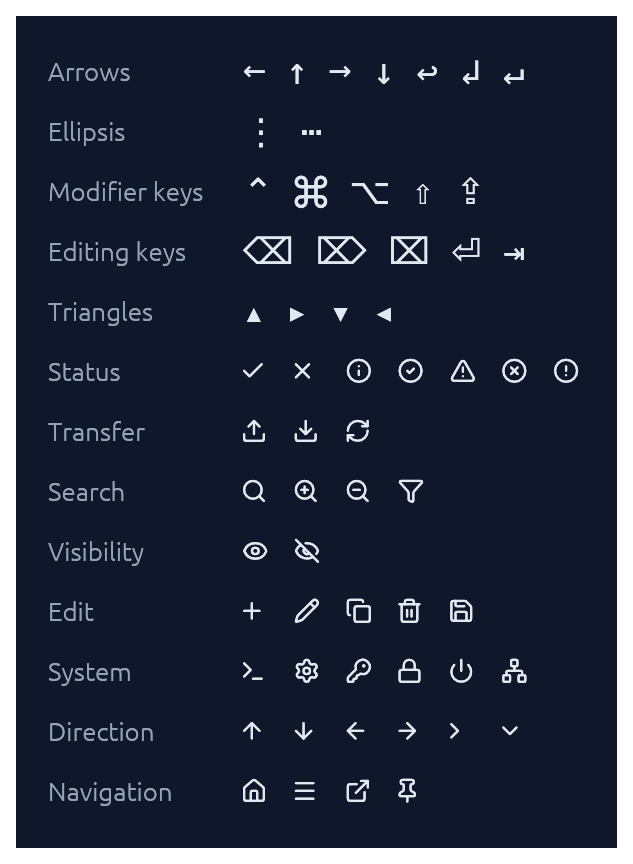
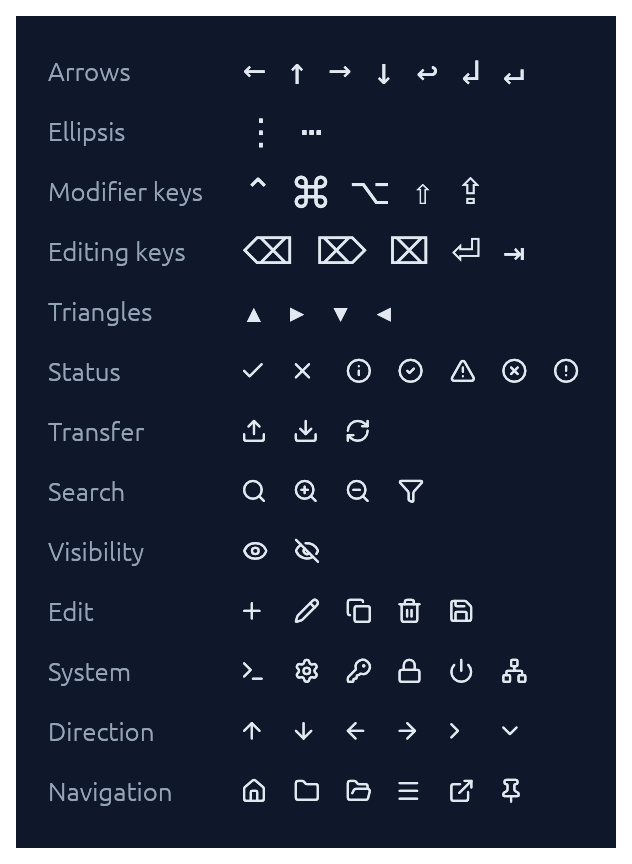
Bake folder and folder-open into the glyph set
A downstream app reached for the 📁 emoji as the root of a breadcrumb,
because the set has no folder icon. That is not just a style mismatch:
the emoji resolves in the system emoji font, so it paints full-colour on
its own metrics and baseline, next to stroked Lucide outlines sharing a
cap-height and advance. The seam shows most where it hurts, in a
breadcrumb whose separator is CHEVRON_RIGHT and whose root may be HOME.

FOLDER at U+E023 clears the scope bar on its own: directories and
collections are generic UI vocabulary, the same tier as the house, lock,
and save already baked, not one app's domain nouns. FOLDER_OPEN at
U+E024 follows it for the expanded or current node in a tree — the pair
reads apart at gallery size, so a tree can switch between them without a
size bump.

The rebake is faithful to the pinned Lucide tag: diffed glyph-by-glyph
against the previous font, all 64 existing outlines and advances are
unchanged and only the two codepoints are added. Regenerating the docs
rewrites every PNG, but only glyphs.png differs pixel-wise, so the rest
are left alone to keep the diff reviewable.

diff --git a/src/lib.rs b/src/lib.rs
@@ -237,6 +237,13 @@ pub mod glyphs {
     pub const LOCK: char = '\u{E021}';
     /// Save icon, for persisting changes. Source: [Lucide `save`](https://lucide.dev/icons/save).
     pub const SAVE: char = '\u{E022}';
+    /// Folder icon, for directories, collections, and breadcrumb roots
+    /// (pairs with [`HOME`]). Source: [Lucide `folder`](https://lucide.dev/icons/folder).
+    pub const FOLDER: char = '\u{E023}';
+    /// Open-folder icon, for the expanded or current directory in a tree or
+    /// breadcrumb (pairs with [`FOLDER`]).
+    /// Source: [Lucide `folder-open`](https://lucide.dev/icons/folder-open).
+    pub const FOLDER_OPEN: char = '\u{E024}';
     /// Check / done mark, mapped at standard U+2713 so plain `'✓'` literals
     /// also pick up the elegance treatment.
     /// Source: [Lucide `check`](https://lucide.dev/icons/check).

diff --git a/examples/render_docs.rs b/examples/render_docs.rs
@@ -2067,7 +2067,14 @@ fn render_glyphs() {
                         ),
                         (
                             "Navigation",
-                            icons(&[g::HOME, g::MENU, g::EXTERNAL_LINK, g::PIN]),
+                            icons(&[
+                                g::HOME,
+                                g::FOLDER,
+                                g::FOLDER_OPEN,
+                                g::MENU,
+                                g::EXTERNAL_LINK,
+                                g::PIN,
+                            ]),
                         ),
                     ];
                     for (label, glyphs) in &rows {

diff --git a/scripts/update_lucide_glyphs.py b/scripts/update_lucide_glyphs.py
@@ -83,6 +83,8 @@ LUCIDE_GLYPHS = [
     ("house", 0xE020),
     ("lock", 0xE021),
     ("save", 0xE022),
+    ("folder", 0xE023),
+    ("folder-open", 0xE024),
     ("check", 0x2713),
     ("x", 0x2717),
 ]

diff --git a/CHANGELOG.md b/CHANGELOG.md
@@ -13,6 +13,7 @@ Next version is 0.16.0: the `PairItem` change below is breaking.
 - **Commit signal.** New `ResponseCommitExt::committed()` reports the frame a value adjustment settles: on pointer release after a drag or a click (any mouse button, plus touch long-press), immediately on a keyboard nudge, and — for the `Knob`'s scroll wheel — once when the scroll stops rather than once per frame of its smoothed delta. `changed()` still fires on every intermediate value, which is what a live preview wants; `committed()` is for reactions you would not want to repeat dozens of times for one gesture, such as a network write or a disk persist. A `MetricSlider` in `stops` mode previously fired `changed()` once per stop a drag crossed, with no affordance to tell an intermediate value from a settled one. Works on `MetricSlider`, `PercentSlider`, `Slider`, `RangeSlider`, and `Knob`.
 - **Per-item icon tint on `Pairing`.** `PairItem::icon_tone(BadgeTone)` tints a node's leading icon with the crate's status vocabulary; `PairItem::icon_color(impl Into<Color32>)` takes an explicit colour. Untinted icons are unchanged.
 - `BadgeTone::foreground(&Palette)` is now public — the resolver behind badge labels and icon tones.
+- **`glyphs::FOLDER` and `glyphs::FOLDER_OPEN`** (Lucide `folder` / `folder-open`, `U+E023`–`U+E024`), for directories, collections, and breadcrumb roots, with the open variant for the expanded or current node. Apps were falling back to the 📁 emoji, which renders in the system emoji font and reads as a different icon set beside elegance's Lucide glyphs.
 - **`ColorPicker` is keyboard-operable.** Its saturation/value plane, hue strip, and alpha strip were pointer-only: `Tab` landed on them, because they were focusable, but they answered no keys, so the arrows navigated straight back off and a keyboard user could not pick a colour at all. The plane now takes `←`/`→` for saturation and `↑`/`↓` for value; the two strips take `←`/`→` plus `Home`/`End`; `Shift` is a 10x nudge throughout. Each surface draws a focus ring, announces itself to screen readers (previously three unlabelled targets), and records to the recents row on a keyboard adjustment just as it does on a pointer release — one entry per run of presses, so holding an arrow key down cannot flood the row.
 
 ### Changed

diff --git a/dev/glyph_additions_plan.md b/dev/glyph_additions_plan.md
@@ -1,6 +1,6 @@
 # Glyph Additions — Proposal
 
-> **Status:** shipped, and then expanded. This document proposed the first six action glyphs (`U+E00C`–`U+E011`). A follow-up batch added 17 more at `U+E012`–`U+E022` — a Status family (`info`, `triangle-alert`, `circle-x`, `circle-check`) that also rewires `CalloutTone`'s per-tone marks, plus broadly-useful nav/action icons (`settings`, `menu`, `arrow-left`/`right`, `external-link`, `chevron-right`/`down`) and situational ones (`funnel`→`FILTER`, `eye`, `eye-off`, `house`→`HOME`, `lock`, `save`). The conventions and process below applied unchanged to both batches.
+> **Status:** shipped, and then expanded. This document proposed the first six action glyphs (`U+E00C`–`U+E011`). A follow-up batch added 17 more at `U+E012`–`U+E022` — a Status family (`info`, `triangle-alert`, `circle-x`, `circle-check`) that also rewires `CalloutTone`'s per-tone marks, plus broadly-useful nav/action icons (`settings`, `menu`, `arrow-left`/`right`, `external-link`, `chevron-right`/`down`) and situational ones (`funnel`→`FILTER`, `eye`, `eye-off`, `house`→`HOME`, `lock`, `save`). `folder` and `folder-open` landed later at `U+E023`–`U+E024`, on a downstream report of falling back to the 📁 emoji for a breadcrumb root — the emoji renders in the system emoji font, so it reads as a different icon set beside the Lucide glyphs next to it. The conventions and process below applied unchanged to all three.
 
 A proposal to extend the bundled Elegance Symbols icon set with six common action glyphs. The current set covers transfer (`upload`/`download`), search/zoom, status (`circle-alert`, `check`, `x`), and a few object icons (`pin`, `copy`, `network`, `power`, `trash-2`, `pencil`), but downstream apps keep reaching for a small group of everyday action icons that aren't there yet and have to fall back to text-only buttons or base-font literals.
 

diff --git a/README.md b/README.md
@@ -1120,7 +1120,7 @@ The font combines a subset of DejaVu Sans (arrows, math ellipsis, Mac modifier k
 - **System** — `terminal`, `settings`, `key-round`, `lock`, `power`, `network`
 - **Status** — `info`, `circle-check`, `triangle-alert`, `circle-x`, `circle-alert`
 - **Direction** — `arrow-up`, `arrow-down`, `arrow-left`, `arrow-right`, `chevron-right`, `chevron-down`
-- **Navigation** — `house`, `menu`, `external-link`, `pin`
+- **Navigation** — `house`, `folder`, `folder-open`, `menu`, `external-link`, `pin`
 
 plus Lucide-styled `check` / `x` overriding the standard U+2713 / U+2717 codepoints. The status marks also back `Callout`'s per-tone icons. The icons are exposed as constants in the [`glyphs`] module (a few are intent-named where the Lucide name differs, e.g. `FILTER` for `funnel`, `HOME` for `house`):
 
